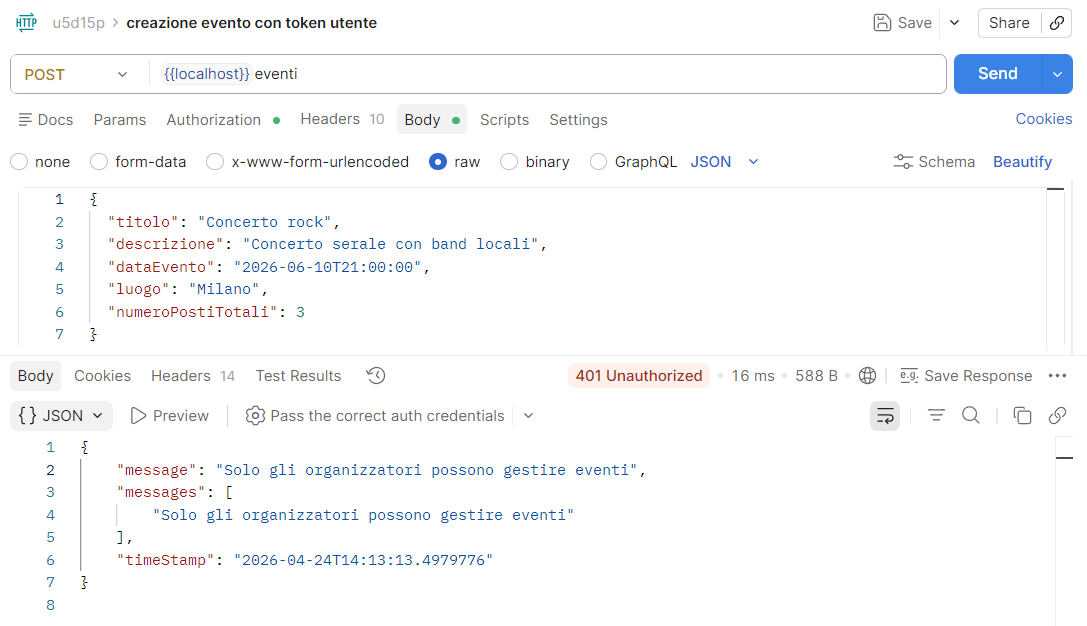
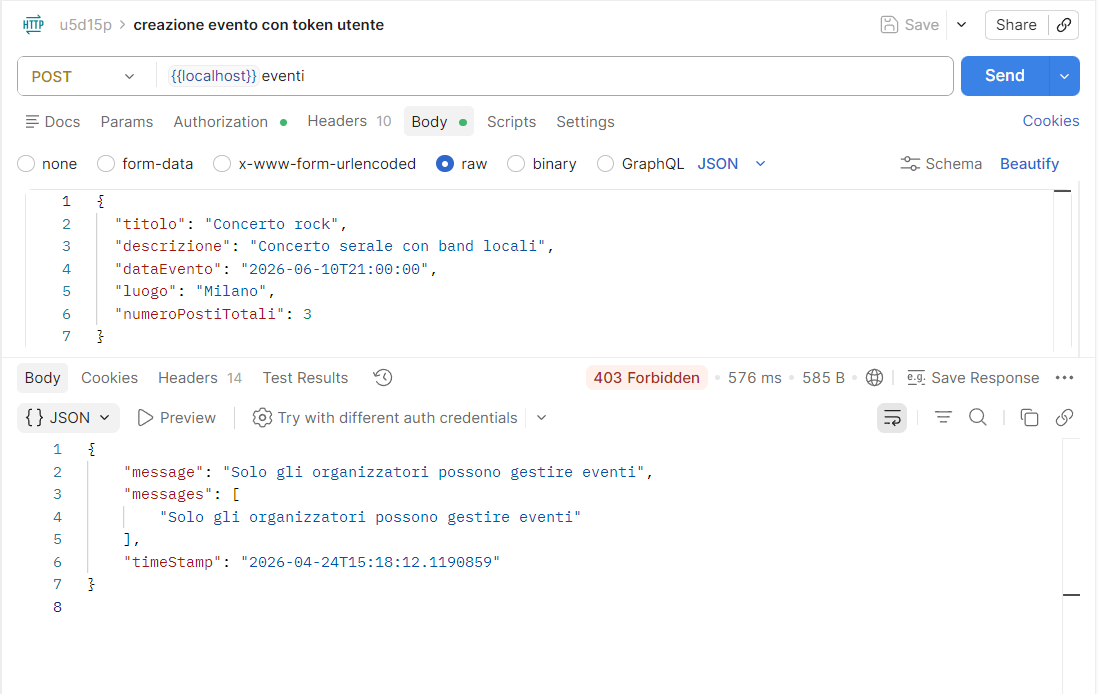
Error 401 replaced with 403 where appropriate

diff --git a/src/main/java/samuelvalentini/u5d15p/exception/ForbiddenException.java b/src/main/java/samuelvalentini/u5d15p/exception/ForbiddenException.java
@@ -1,0 +1,7 @@
+package samuelvalentini.u5d15p.exception;
+
+public class ForbiddenException extends RuntimeException {
+    public ForbiddenException(String message) {
+        super(message);
+    }
+}

diff --git a/src/main/java/samuelvalentini/u5d15p/service/EventoService.java b/src/main/java/samuelvalentini/u5d15p/service/EventoService.java
@@ -6,8 +6,9 @@ import samuelvalentini.u5d15p.dto.EventoResponse;
 import samuelvalentini.u5d15p.entity.Evento;
 import samuelvalentini.u5d15p.entity.Utente;
 import samuelvalentini.u5d15p.enumeration.Ruolo;
+import samuelvalentini.u5d15p.exception.ForbiddenException;
 import samuelvalentini.u5d15p.exception.NotFoundException;
-import samuelvalentini.u5d15p.exception.UnauthorizedException;
+
 import samuelvalentini.u5d15p.repository.EventoRepository;
 import samuelvalentini.u5d15p.repository.PrenotazioneRepository;
 
@@ -91,13 +92,13 @@ public class EventoService {
 
     private void checkOrganizzatore(Utente utente) {
         if (utente.getRuolo() != Ruolo.ORGANIZZATORE) {
-            throw new UnauthorizedException("Solo gli organizzatori possono gestire eventi");
+            throw new ForbiddenException("Solo gli organizzatori possono gestire eventi");
         }
     }
 
     private void checkProprietarioEvento(Evento evento, Utente utente) {
         if (!evento.getOrganizzatore().getUtenteId().equals(utente.getUtenteId())) {
-            throw new UnauthorizedException("Puoi modificare o eliminare solo i tuoi eventi");
+            throw new ForbiddenException("Puoi modificare o eliminare solo i tuoi eventi");
         }
     }
 

diff --git a/src/main/java/samuelvalentini/u5d15p/exception/ErrorHandler.java b/src/main/java/samuelvalentini/u5d15p/exception/ErrorHandler.java
@@ -40,6 +40,12 @@ public class ErrorHandler {
         return new ErrorPayload(ex.getMessage(), LocalDateTime.now());
     }
 
+    @ExceptionHandler(ForbiddenException.class)
+    @ResponseStatus(HttpStatus.FORBIDDEN)
+    public ErrorPayload handleForbidden(ForbiddenException ex) {
+        return new ErrorPayload(ex.getMessage(), LocalDateTime.now());
+    }
+
     @ExceptionHandler(HandlerMethodValidationException.class)
     @ResponseStatus(HttpStatus.BAD_REQUEST)
     public ErrorPayload handleBadRequest(HandlerMethodValidationException ex) {

diff --git a/src/main/java/samuelvalentini/u5d15p/service/PrenotazioneService.java b/src/main/java/samuelvalentini/u5d15p/service/PrenotazioneService.java
@@ -6,8 +6,9 @@ import samuelvalentini.u5d15p.entity.Evento;
 import samuelvalentini.u5d15p.entity.Prenotazione;
 import samuelvalentini.u5d15p.entity.Utente;
 import samuelvalentini.u5d15p.exception.BadRequestException;
+import samuelvalentini.u5d15p.exception.ForbiddenException;
 import samuelvalentini.u5d15p.exception.NotFoundException;
-import samuelvalentini.u5d15p.exception.UnauthorizedException;
+
 import samuelvalentini.u5d15p.repository.PrenotazioneRepository;
 
 import java.util.List;
@@ -55,7 +56,7 @@ public class PrenotazioneService {
         Prenotazione prenotazione = findById(prenotazioneId);
 
         if (!prenotazione.getUtente().getUtenteId().equals(utente.getUtenteId())) {
-            throw new UnauthorizedException("Puoi annullare solo le tue prenotazioni");
+            throw new ForbiddenException("Puoi annullare solo le tue prenotazioni");
         }
 
         prenotazioneRepository.delete(prenotazione);